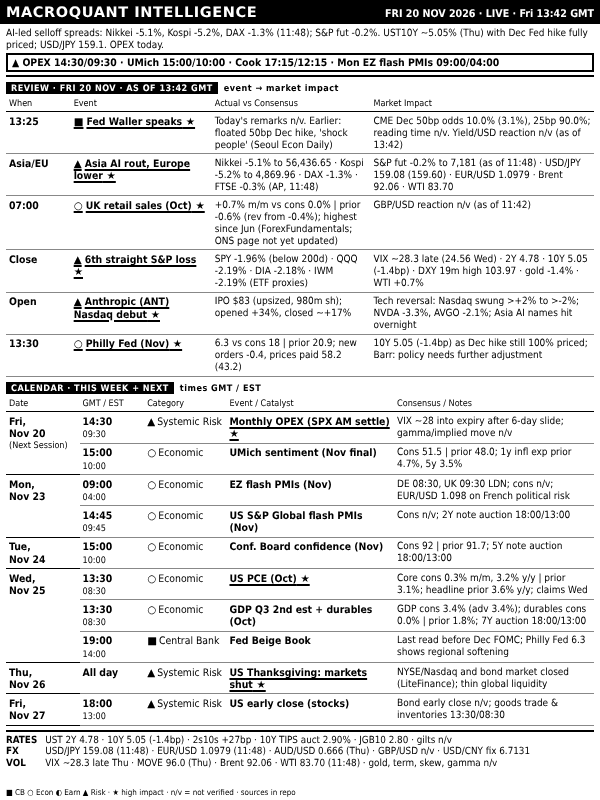
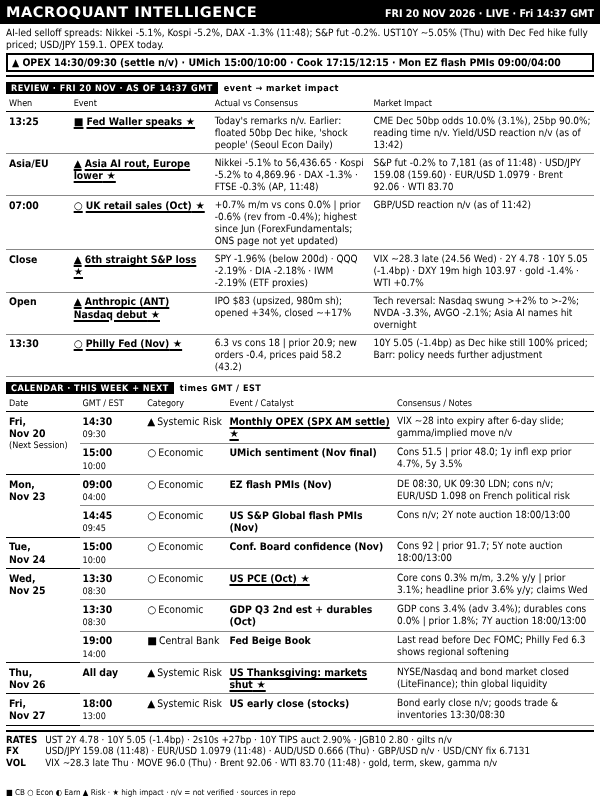
dashboard: FRI 20 NOV 2026 LIVE 14:37
Claude-Session: https://claude.ai/code/session_016SJqa6gq1PEgF3PW3JwWys

Changed region(s): [[0.21, 0.0625, 0.93, 0.125], [0.9, 0.0, 0.93, 0.0312]]

diff --git a/out/dashboard.html b/out/dashboard.html
@@ -38,9 +38,9 @@ table.bd{border-collapse:collapse;width:100%;table-layout:fixed;margin-top:1px}
 </style></head><body>
 <div id="root">
  <div class="hdr"><span class="t">MACROQUANT INTELLIGENCE</span>
-  <span class="r">FRI 20 NOV 2026 · LIVE · Fri 13:42 GMT</span></div>
- <div class="ban"><div class="rg">AI-led selloff spreads: Nikkei -5.1%, Kospi -5.2%, DAX -1.3% (11:48); S&amp;P fut -0.2%. UST10Y ~5.05% (Thu) with Dec Fed hike fully priced; USD/JPY 159.1. OPEX today.</div><div class="al">▲ OPEX 14:30/09:30 · UMich 15:00/10:00 · Cook 17:15/12:15 · Mon EZ flash PMIs 09:00/04:00</div></div>
- <div class="sl"><span>REVIEW · FRI 20 NOV · AS OF 13:42 GMT</span>event → market impact</div><table class="bd rv"><colgroup><col style="width:11%"><col style="width:24%"><col style="width:27%"><col></colgroup><tr><th>When</th><th>Event</th><th>Actual vs Consensus</th><th>Market Impact</th></tr><tr class="h"><td class="tm"><b>13:25</b></td><td class="ev"><i>■</i>Fed Waller speaks</td><td class="ac">Today's remarks n/v. Earlier: floated 50bp Dec hike, 'shock people' (Seoul Econ Daily)</td><td class="nt">CME Dec 50bp odds 10.0% (3.1%), 25bp 90.0%; reading time n/v. Yield/USD reaction n/v (as of 13:42)</td></tr><tr class="h"><td class="tm"><b>Asia/EU</b></td><td class="ev"><i>▲</i>Asia AI rout, Europe lower</td><td class="ac">Nikkei -5.1% to 56,436.65 · Kospi -5.2% to 4,869.96 · DAX -1.3% · FTSE -0.3% (AP, 11:48)</td><td class="nt">S&amp;P fut -0.2% to 7,181 (as of 11:48) · USD/JPY 159.08 (159.60) · EUR/USD 1.0979 · Brent 92.06 · WTI 83.70</td></tr><tr class="h"><td class="tm"><b>07:00</b></td><td class="ev"><i>○</i>UK retail sales (Oct)</td><td class="ac">+0.7% m/m vs cons 0.0% | prior -0.6% (rev from -0.4%); highest since Jun (ForexFundamentals; ONS page not yet updated)</td><td class="nt">GBP/USD reaction n/v (as of 11:42)</td></tr><tr class="h"><td class="tm"><b>Close</b></td><td class="ev"><i>▲</i>6th straight S&amp;P loss</td><td class="ac">SPY -1.96% (below 200d) · QQQ -2.19% · DIA -2.18% · IWM -2.19% (ETF proxies)</td><td class="nt">VIX ~28.3 late (24.56 Wed) · 2Y 4.78 · 10Y 5.05 (-1.4bp) · DXY 19m high 103.97 · gold -1.4% · WTI +0.7%</td></tr><tr class="h"><td class="tm"><b>Open</b></td><td class="ev"><i>▲</i>Anthropic (ANT) Nasdaq debut</td><td class="ac">IPO $83 (upsized, 980m sh); opened +34%, closed ~+17%</td><td class="nt">Tech reversal: Nasdaq swung &gt;+2% to &gt;-2%; NVDA -3.3%, AVGO -2.1%; Asia AI names hit overnight</td></tr><tr class="h"><td class="tm"><b>13:30</b></td><td class="ev"><i>○</i>Philly Fed (Nov)</td><td class="ac">6.3 vs cons 18 | prior 20.9; new orders -0.4, prices paid 58.2 (43.2)</td><td class="nt">10Y 5.05 (-1.4bp) as Dec hike still 100% priced; Barr: policy needs further adjustment</td></tr></table>
+  <span class="r">FRI 20 NOV 2026 · LIVE · Fri 14:37 GMT</span></div>
+ <div class="ban"><div class="rg">AI-led selloff spreads: Nikkei -5.1%, Kospi -5.2%, DAX -1.3% (11:48); S&amp;P fut -0.2%. UST10Y ~5.05% (Thu) with Dec Fed hike fully priced; USD/JPY 159.1. OPEX today.</div><div class="al">▲ OPEX 14:30/09:30 (settle n/v) · UMich 15:00/10:00 · Cook 17:15/12:15 · Mon EZ flash PMIs 09:00/04:00</div></div>
+ <div class="sl"><span>REVIEW · FRI 20 NOV · AS OF 14:37 GMT</span>event → market impact</div><table class="bd rv"><colgroup><col style="width:11%"><col style="width:24%"><col style="width:27%"><col></colgroup><tr><th>When</th><th>Event</th><th>Actual vs Consensus</th><th>Market Impact</th></tr><tr class="h"><td class="tm"><b>13:25</b></td><td class="ev"><i>■</i>Fed Waller speaks</td><td class="ac">Today's remarks n/v. Earlier: floated 50bp Dec hike, 'shock people' (Seoul Econ Daily)</td><td class="nt">CME Dec 50bp odds 10.0% (3.1%), 25bp 90.0%; reading time n/v. Yield/USD reaction n/v (as of 13:42)</td></tr><tr class="h"><td class="tm"><b>Asia/EU</b></td><td class="ev"><i>▲</i>Asia AI rout, Europe lower</td><td class="ac">Nikkei -5.1% to 56,436.65 · Kospi -5.2% to 4,869.96 · DAX -1.3% · FTSE -0.3% (AP, 11:48)</td><td class="nt">S&amp;P fut -0.2% to 7,181 (as of 11:48) · USD/JPY 159.08 (159.60) · EUR/USD 1.0979 · Brent 92.06 · WTI 83.70</td></tr><tr class="h"><td class="tm"><b>07:00</b></td><td class="ev"><i>○</i>UK retail sales (Oct)</td><td class="ac">+0.7% m/m vs cons 0.0% | prior -0.6% (rev from -0.4%); highest since Jun (ForexFundamentals; ONS page not yet updated)</td><td class="nt">GBP/USD reaction n/v (as of 11:42)</td></tr><tr class="h"><td class="tm"><b>Close</b></td><td class="ev"><i>▲</i>6th straight S&amp;P loss</td><td class="ac">SPY -1.96% (below 200d) · QQQ -2.19% · DIA -2.18% · IWM -2.19% (ETF proxies)</td><td class="nt">VIX ~28.3 late (24.56 Wed) · 2Y 4.78 · 10Y 5.05 (-1.4bp) · DXY 19m high 103.97 · gold -1.4% · WTI +0.7%</td></tr><tr class="h"><td class="tm"><b>Open</b></td><td class="ev"><i>▲</i>Anthropic (ANT) Nasdaq debut</td><td class="ac">IPO $83 (upsized, 980m sh); opened +34%, closed ~+17%</td><td class="nt">Tech reversal: Nasdaq swung &gt;+2% to &gt;-2%; NVDA -3.3%, AVGO -2.1%; Asia AI names hit overnight</td></tr><tr class="h"><td class="tm"><b>13:30</b></td><td class="ev"><i>○</i>Philly Fed (Nov)</td><td class="ac">6.3 vs cons 18 | prior 20.9; new orders -0.4, prices paid 58.2 (43.2)</td><td class="nt">10Y 5.05 (-1.4bp) as Dec hike still 100% priced; Barr: policy needs further adjustment</td></tr></table>
  <div class="sl"><span>CALENDAR · THIS WEEK + NEXT</span>times GMT / EST</div>
  <table class="bd"><colgroup><col style="width:12.5%"><col style="width:11%"><col style="width:14%"><col style="width:28.5%"><col></colgroup><tr><th>Date</th><th>GMT / EST</th><th>Category</th><th>Event / Catalyst</th><th>Consensus / Notes</th></tr><tr class="g0 h"><td class="dt" rowspan="2">Fri,<br>Nov&nbsp;20<span class="tg">(Next Session)</span></td><td class="tm"><b>14:30</b><span>09:30</span></td><td class="ct"><i>▲</i>Systemic Risk</td><td class="ev">Monthly OPEX (SPX AM settle)</td><td class="nt">VIX ~28 into expiry after 6-day slide; gamma/implied move n/v</td></tr><tr class=""><td class="tm"><b>15:00</b><span>10:00</span></td><td class="ct"><i>○</i>Economic</td><td class="ev">UMich sentiment (Nov final)</td><td class="nt">Cons 51.5 | prior 48.0; 1y infl exp prior 4.7%, 5y 3.5%</td></tr><tr class="g0"><td class="dt" rowspan="2">Mon,<br>Nov&nbsp;23</td><td class="tm"><b>09:00</b><span>04:00</span></td><td class="ct"><i>○</i>Economic</td><td class="ev">EZ flash PMIs (Nov)</td><td class="nt">DE 08:30, UK 09:30 LDN; cons n/v; EUR/USD 1.098 on French political risk</td></tr><tr class=""><td class="tm"><b>14:45</b><span>09:45</span></td><td class="ct"><i>○</i>Economic</td><td class="ev">US S&amp;P Global flash PMIs (Nov)</td><td class="nt">Cons n/v; 2Y note auction 18:00/13:00</td></tr><tr class="g0"><td class="dt" rowspan="1">Tue,<br>Nov&nbsp;24</td><td class="tm"><b>15:00</b><span>10:00</span></td><td class="ct"><i>○</i>Economic</td><td class="ev">Conf. Board confidence (Nov)</td><td class="nt">Cons 92 | prior 91.7; 5Y note auction 18:00/13:00</td></tr><tr class="g0 h"><td class="dt" rowspan="3">Wed,<br>Nov&nbsp;25</td><td class="tm"><b>13:30</b><span>08:30</span></td><td class="ct"><i>○</i>Economic</td><td class="ev">US PCE (Oct)</td><td class="nt">Core cons 0.3% m/m, 3.2% y/y | prior 3.1%; headline prior 3.6% y/y; claims Wed</td></tr><tr class=""><td class="tm"><b>13:30</b><span>08:30</span></td><td class="ct"><i>○</i>Economic</td><td class="ev">GDP Q3 2nd est + durables (Oct)</td><td class="nt">GDP cons 3.4% (adv 3.4%); durables cons 0.0% | prior 1.8%; 7Y auction 18:00/13:00</td></tr><tr class=""><td class="tm"><b>19:00</b><span>14:00</span></td><td class="ct"><i>■</i>Central Bank</td><td class="ev">Fed Beige Book</td><td class="nt">Last read before Dec FOMC; Philly Fed 6.3 shows regional softening</td></tr><tr class="g0 h"><td class="dt" rowspan="1">Thu,<br>Nov&nbsp;26</td><td class="tm"><b>All day</b></td><td class="ct"><i>▲</i>Systemic Risk</td><td class="ev">US Thanksgiving: markets shut</td><td class="nt">NYSE/Nasdaq and bond market closed (LiteFinance); thin global liquidity</td></tr><tr class="g0"><td class="dt" rowspan="1">Fri,<br>Nov&nbsp;27</td><td class="tm"><b>18:00</b><span>13:00</span></td><td class="ct"><i>▲</i>Systemic Risk</td><td class="ev">US early close (stocks)</td><td class="nt">Bond early close n/v; goods trade &amp; inventories 13:30/08:30</td></tr></table>
  <div class="lv"><div><b>RATES</b>UST 2Y 4.78 · 10Y 5.05 (-1.4bp) · 2s10s +27bp · 10Y TIPS auct 2.90% · JGB10 2.80 · gilts n/v</div><div><b>FX</b>USD/JPY 159.08 (11:48) · EUR/USD 1.0979 (11:48) · AUD/USD 0.666 (Thu) · GBP/USD n/v · USD/CNY fix 6.7131</div><div><b>VOL</b>VIX ~28.3 late Thu · MOVE 96.0 (Thu) · Brent 92.06 · WTI 83.70 (11:48) · gold, term, skew, gamma n/v</div></div>
